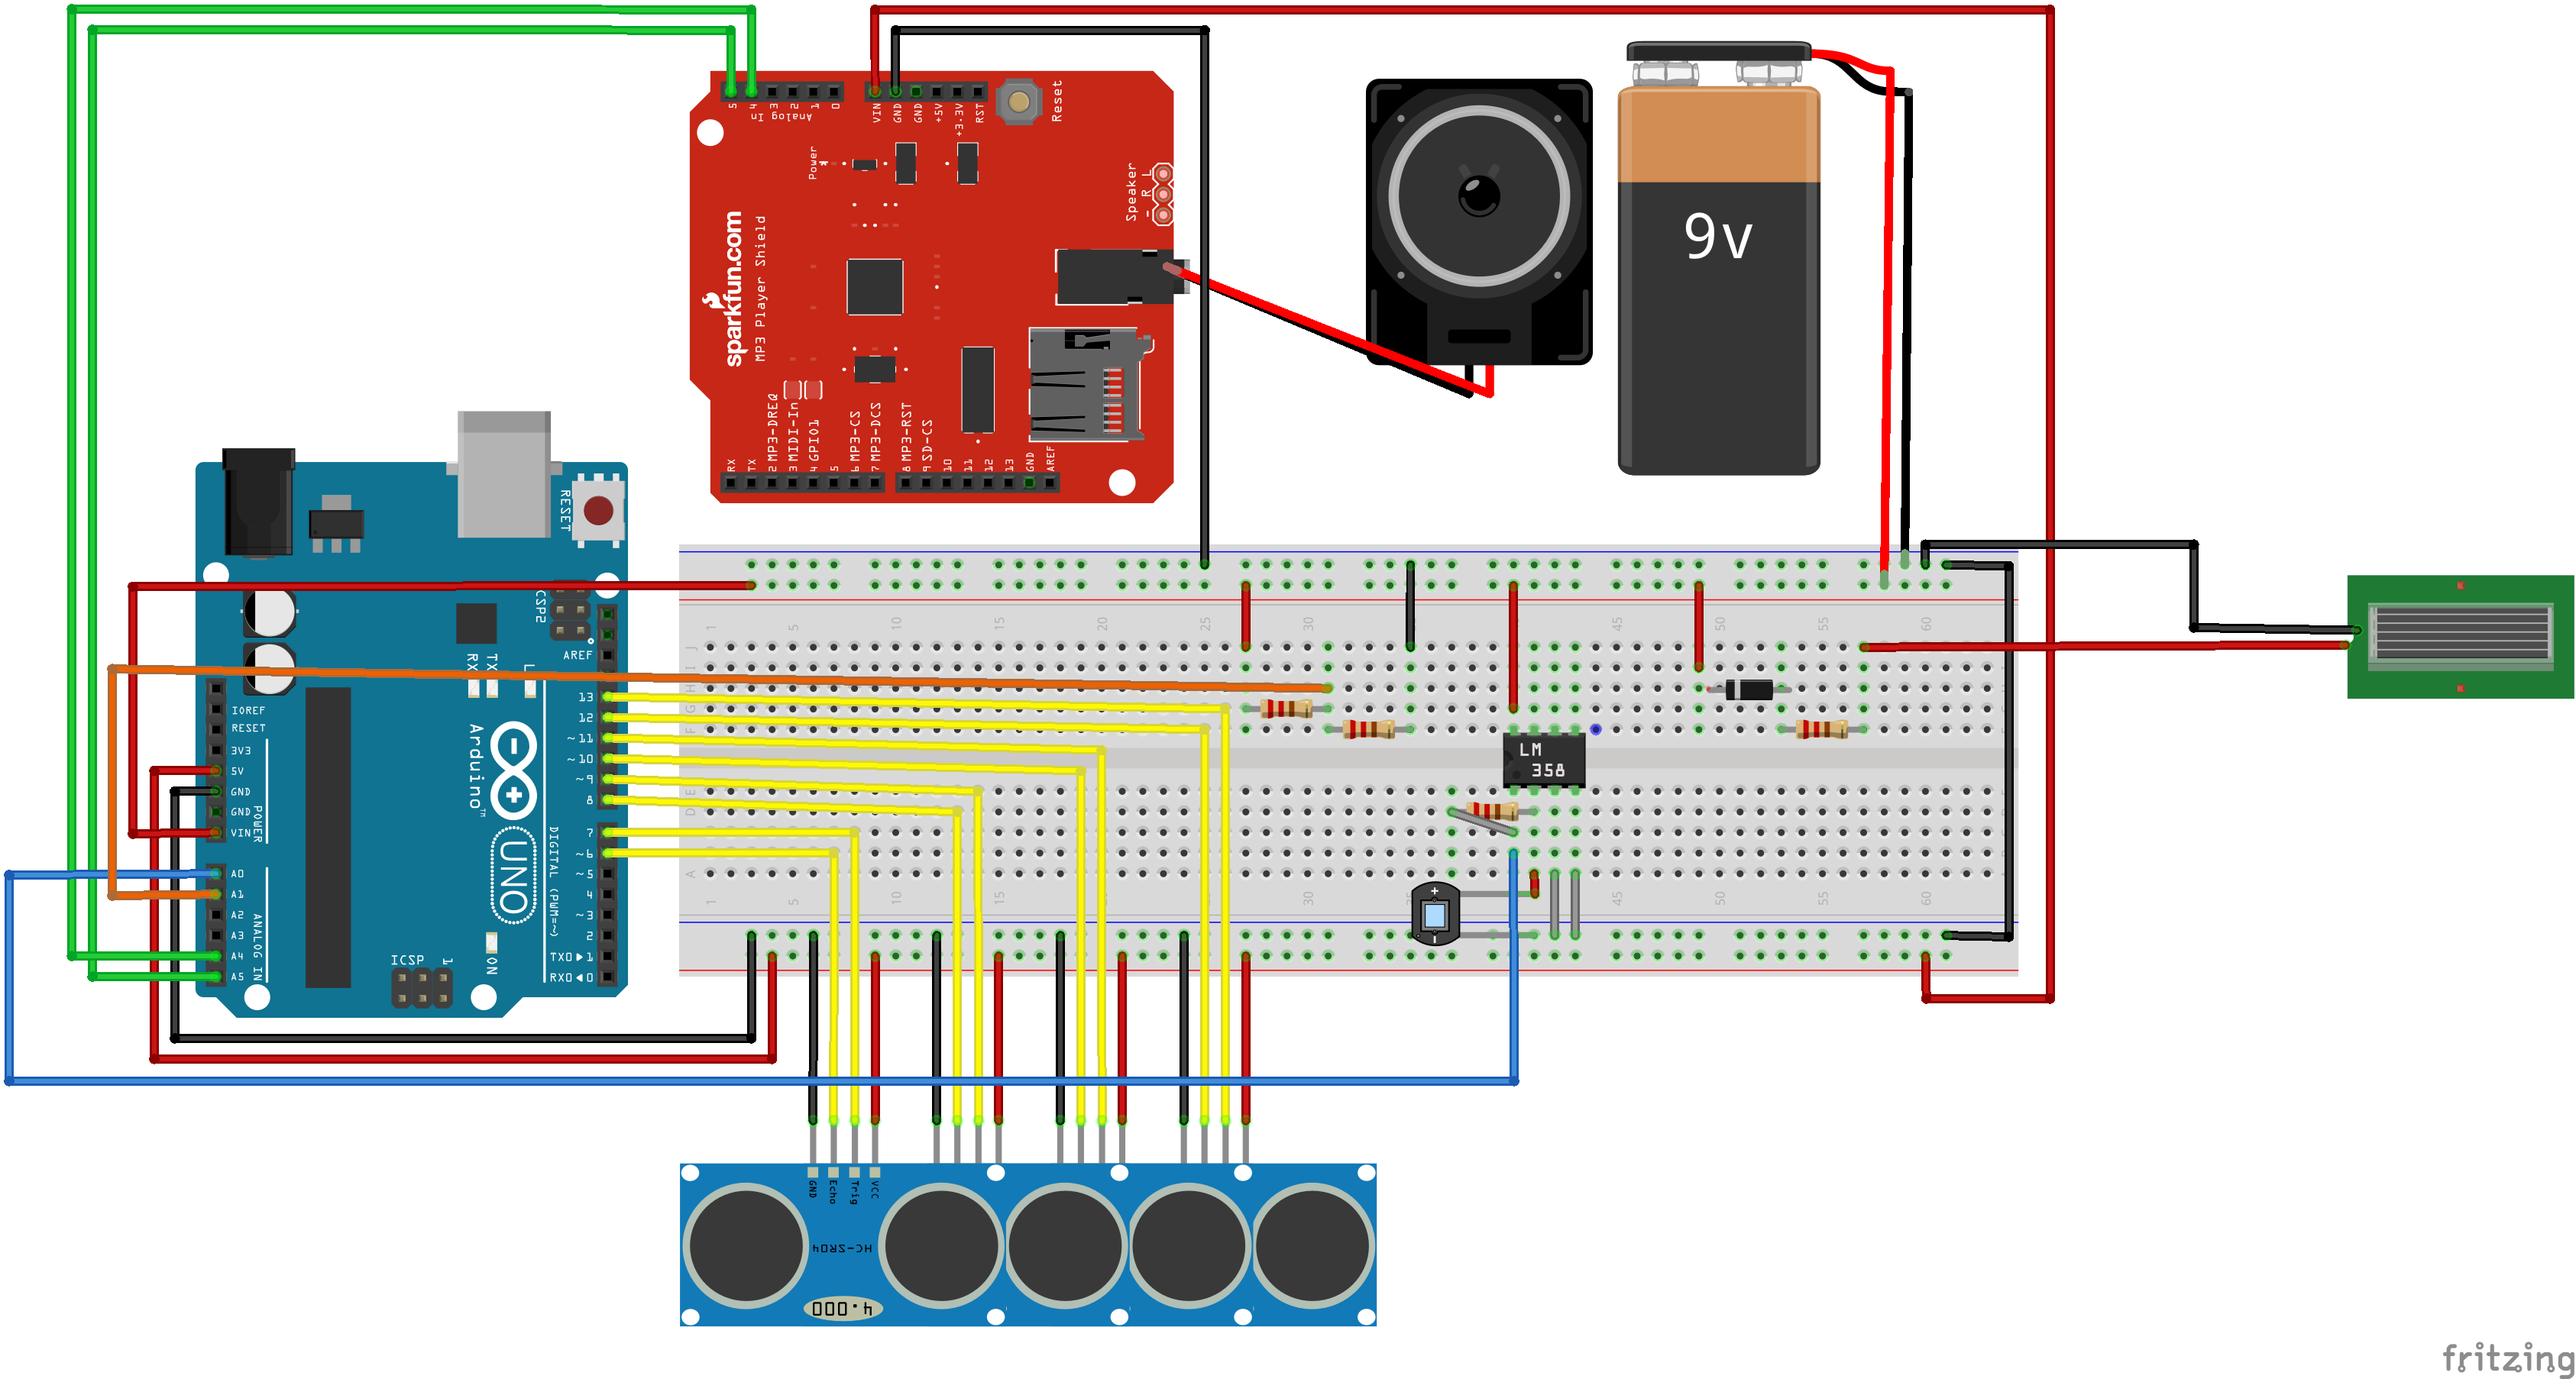
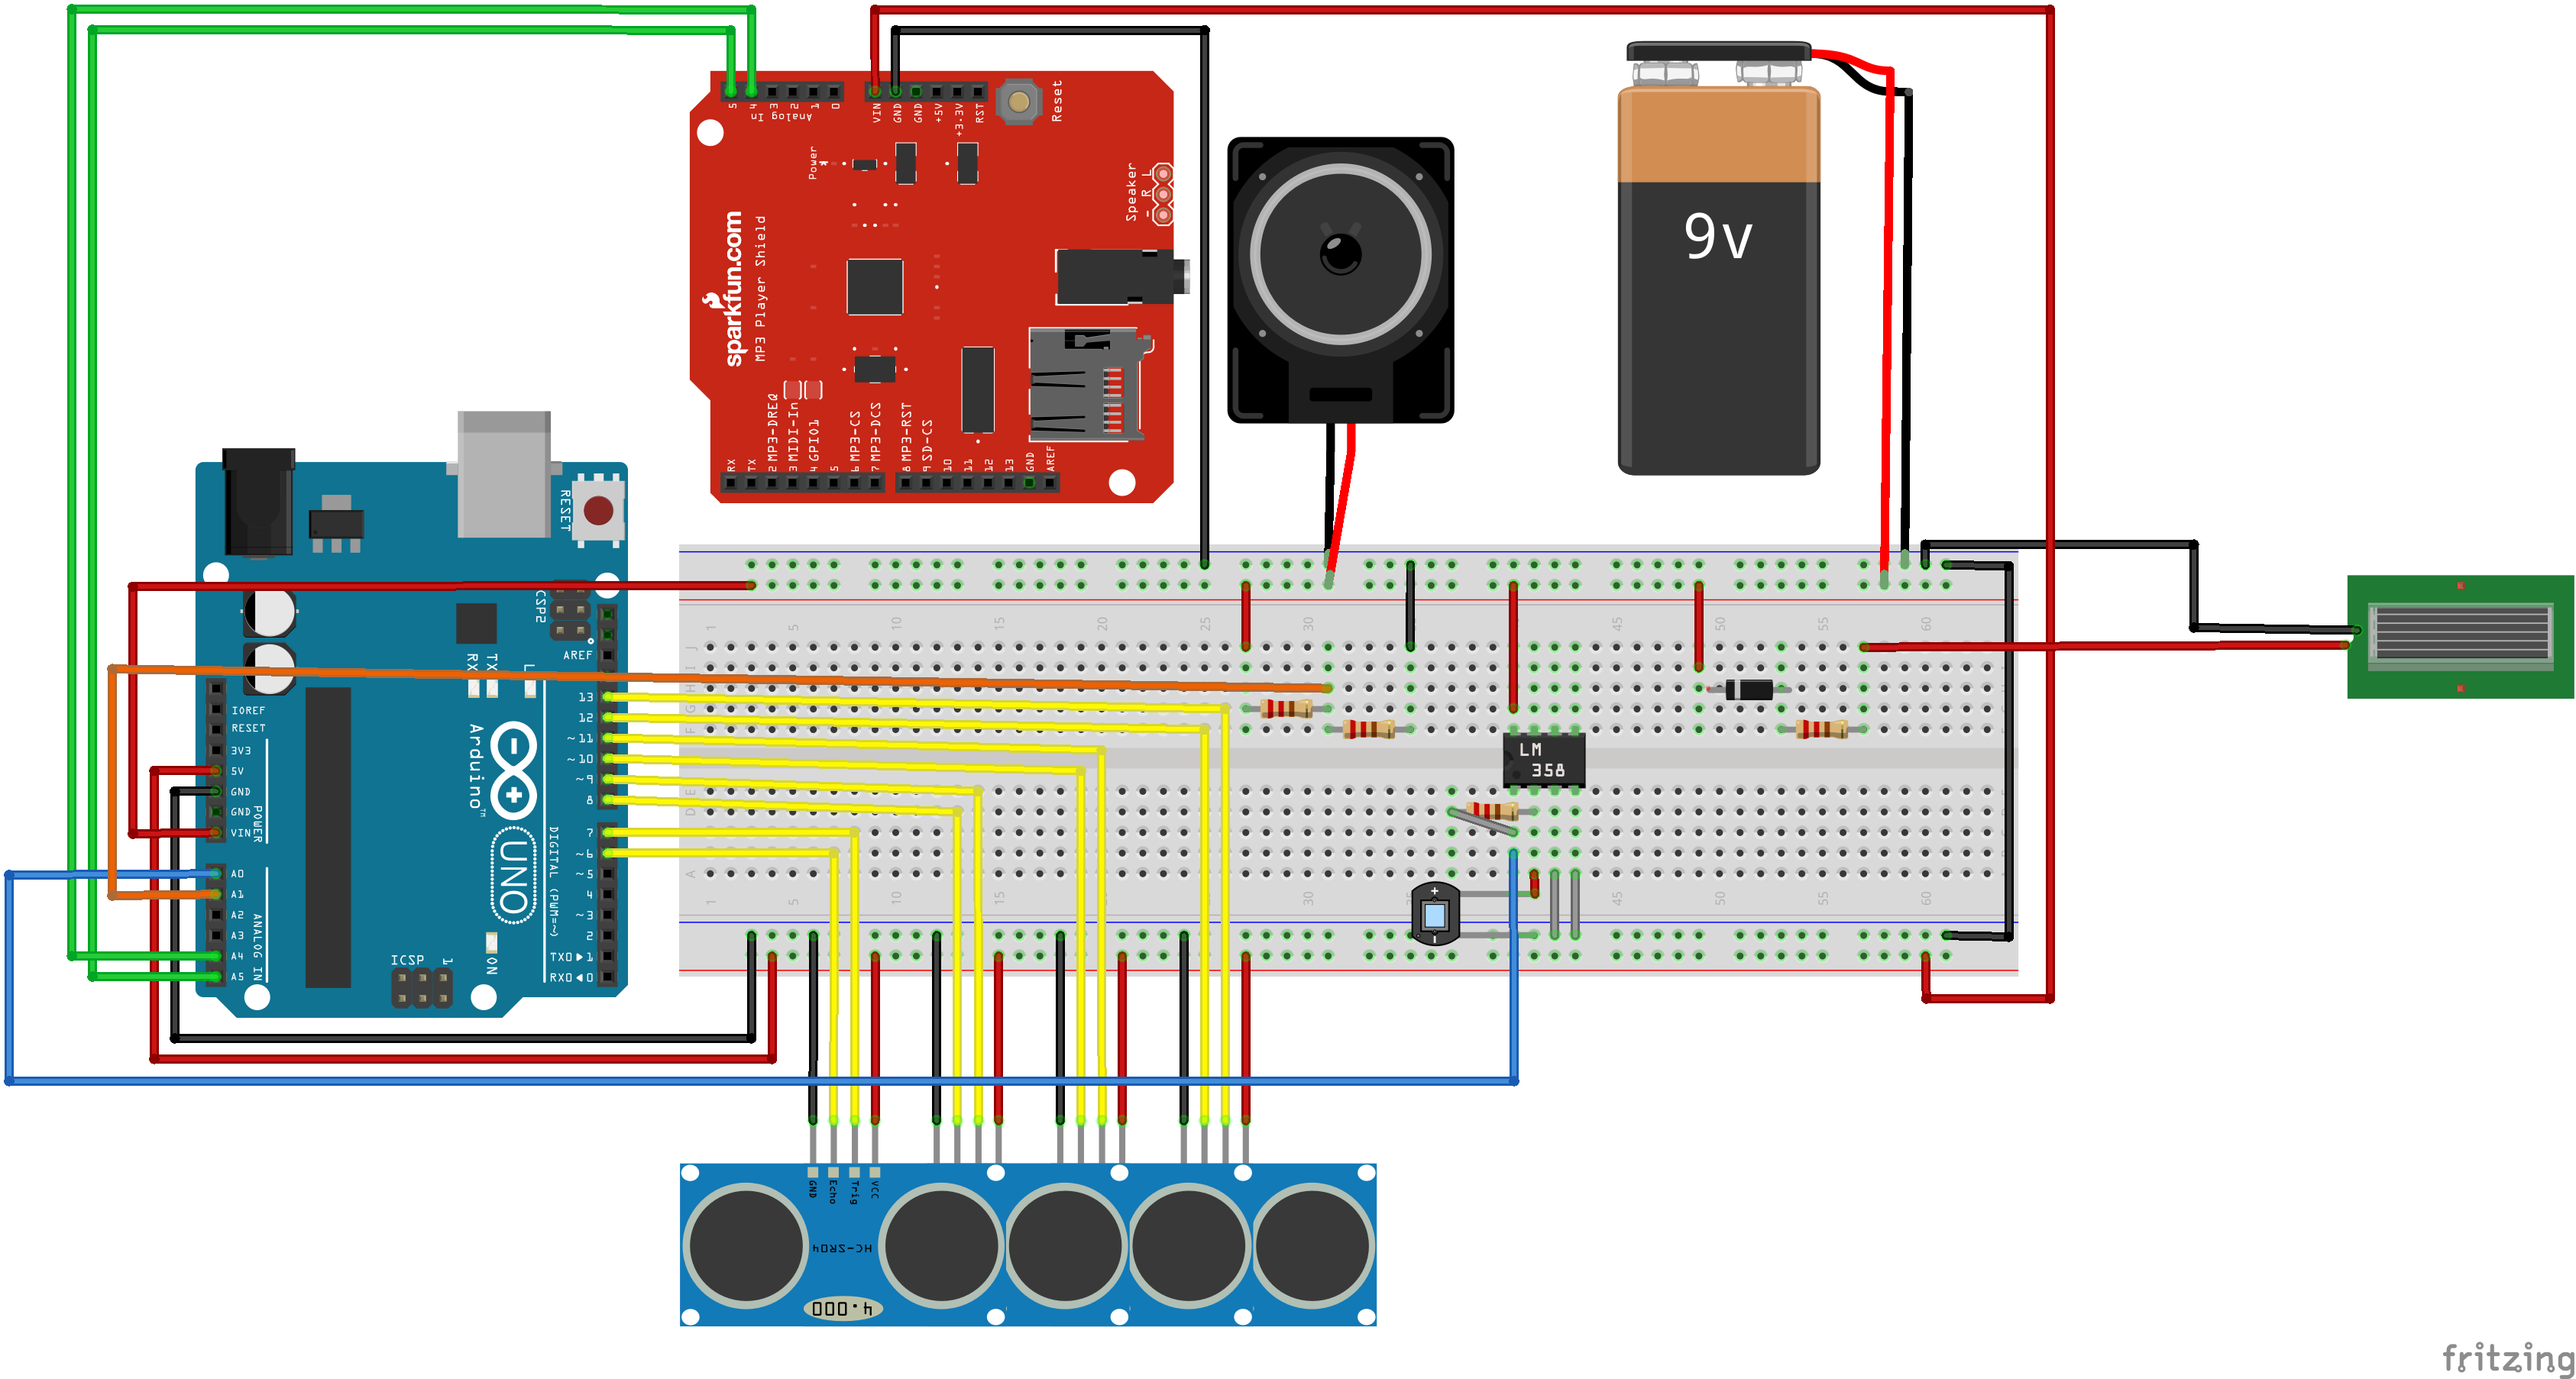
Modify circuit and README

Changed region(s): [[0.4359, 0.031, 0.6228, 0.4031]]

diff --git a/README.md b/README.md
@@ -5,7 +5,11 @@ It also has the following minor functionalities: automatically turns off at nigh
 # Circuitry
 ## Circuit Diagram
 ![alt text](https://github.com/ellenlowing/woodpeckersPro/blob/master/assets/EK210%20Woodpecker%20circuit.png)
-
+Remark:
+- FONA 808 Shield is not shown in the diagram. Simply put the shield on top of the main Arduino (the one without MP3 player shield) 
+- Resistor used in series with solar panel depends on the voltage of solar panel and RC battery
+- Resistors used to indicate voltage have to be of the same value
+- Plug in the speaker's audio jack to the MP3 player shield
 ## Bill of Materials
 - 2 Arduinos: control overall operation of device
 - Sparkfun MP3 player shield: facilitate mp3 playing
@@ -14,7 +18,7 @@ It also has the following minor functionalities: automatically turns off at nigh
 - Lipoly battery: charge FONA 808 shield
 - RC rechargeable battery: power Arduinos and other circuit components
 - Solar panel: charge battery with sunlight
-- Lightdiode and op amp: enable automatic switch off at night
+- Lightdiode and LMC6482 Op Amp: enable automatic switch off at night
 - Ultrasonic sensors: sense presence of woodpeckers
 - Speakers: deter woodpeckers with predator call
 - Resistors: act as sensor for voltage
